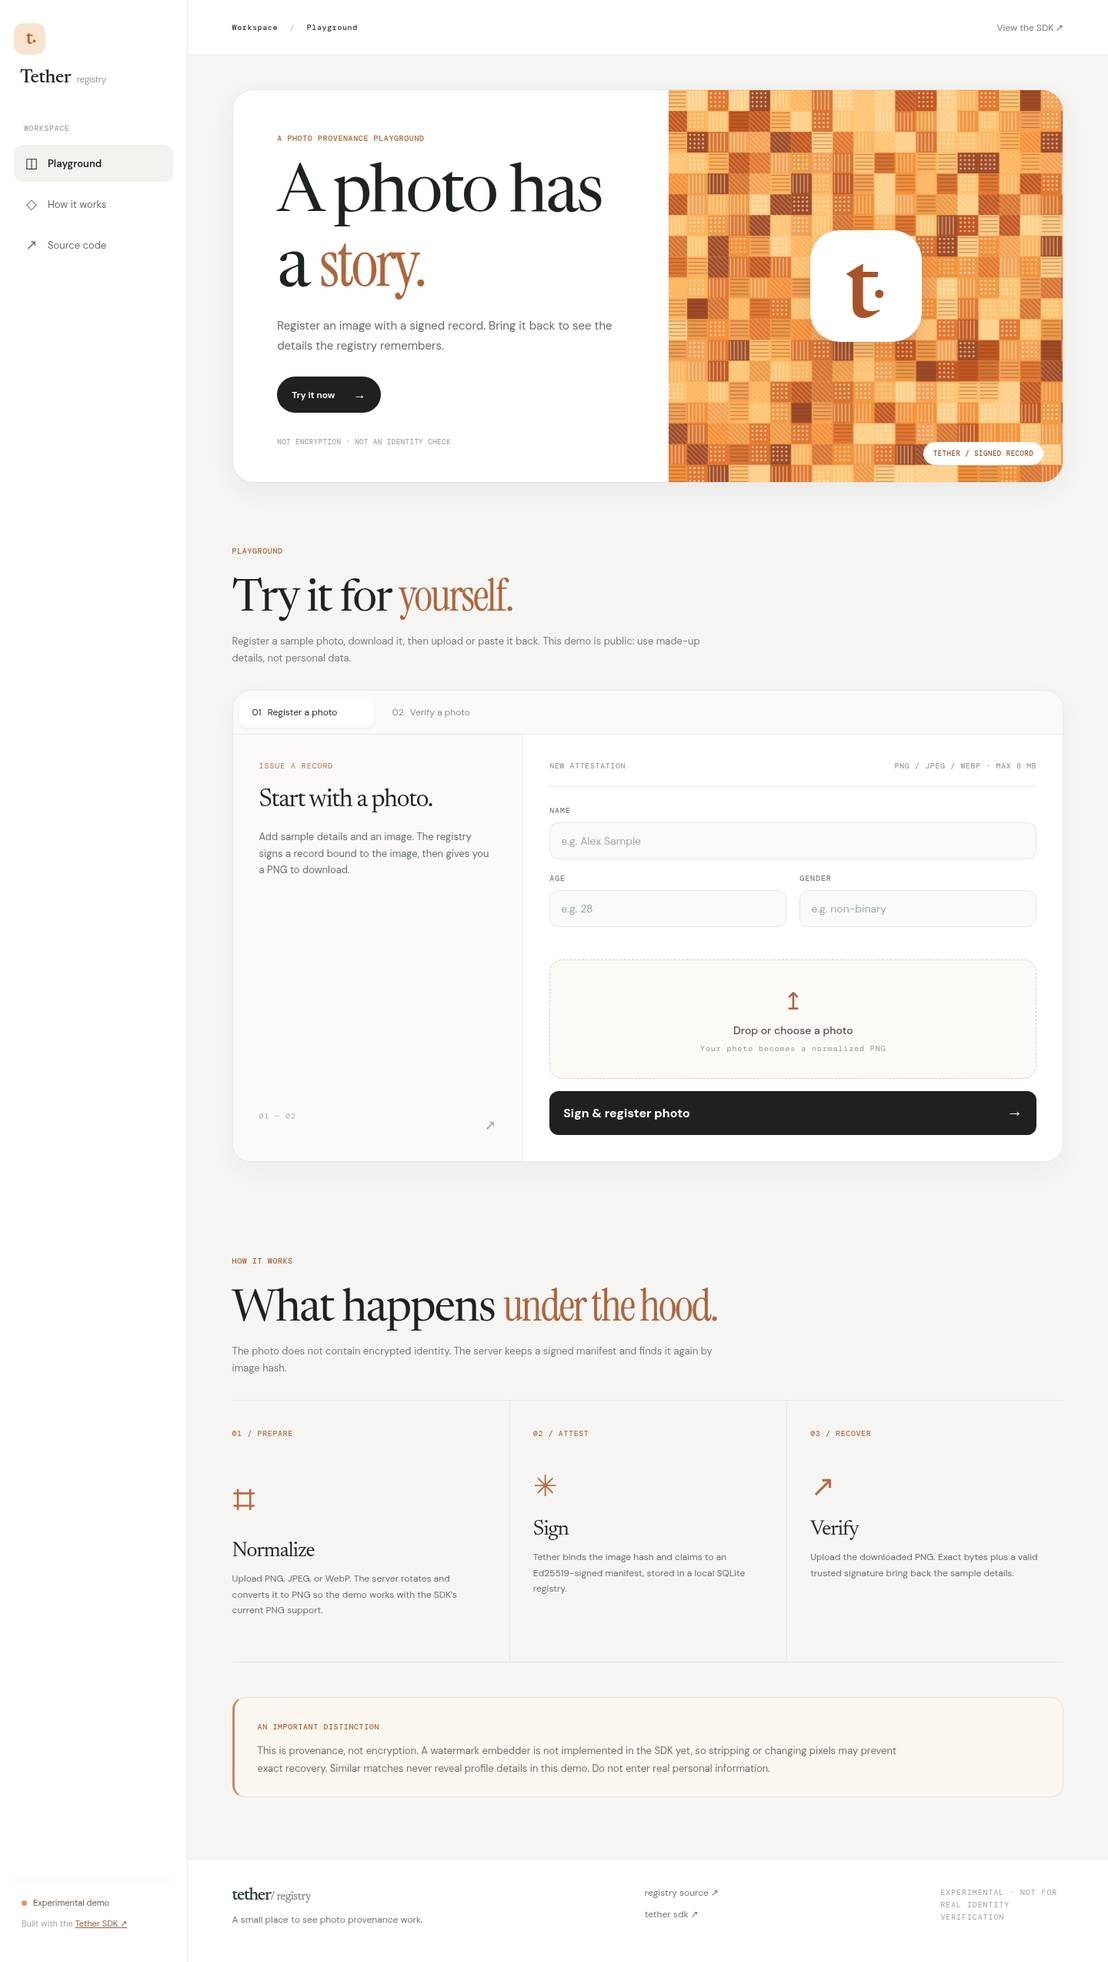
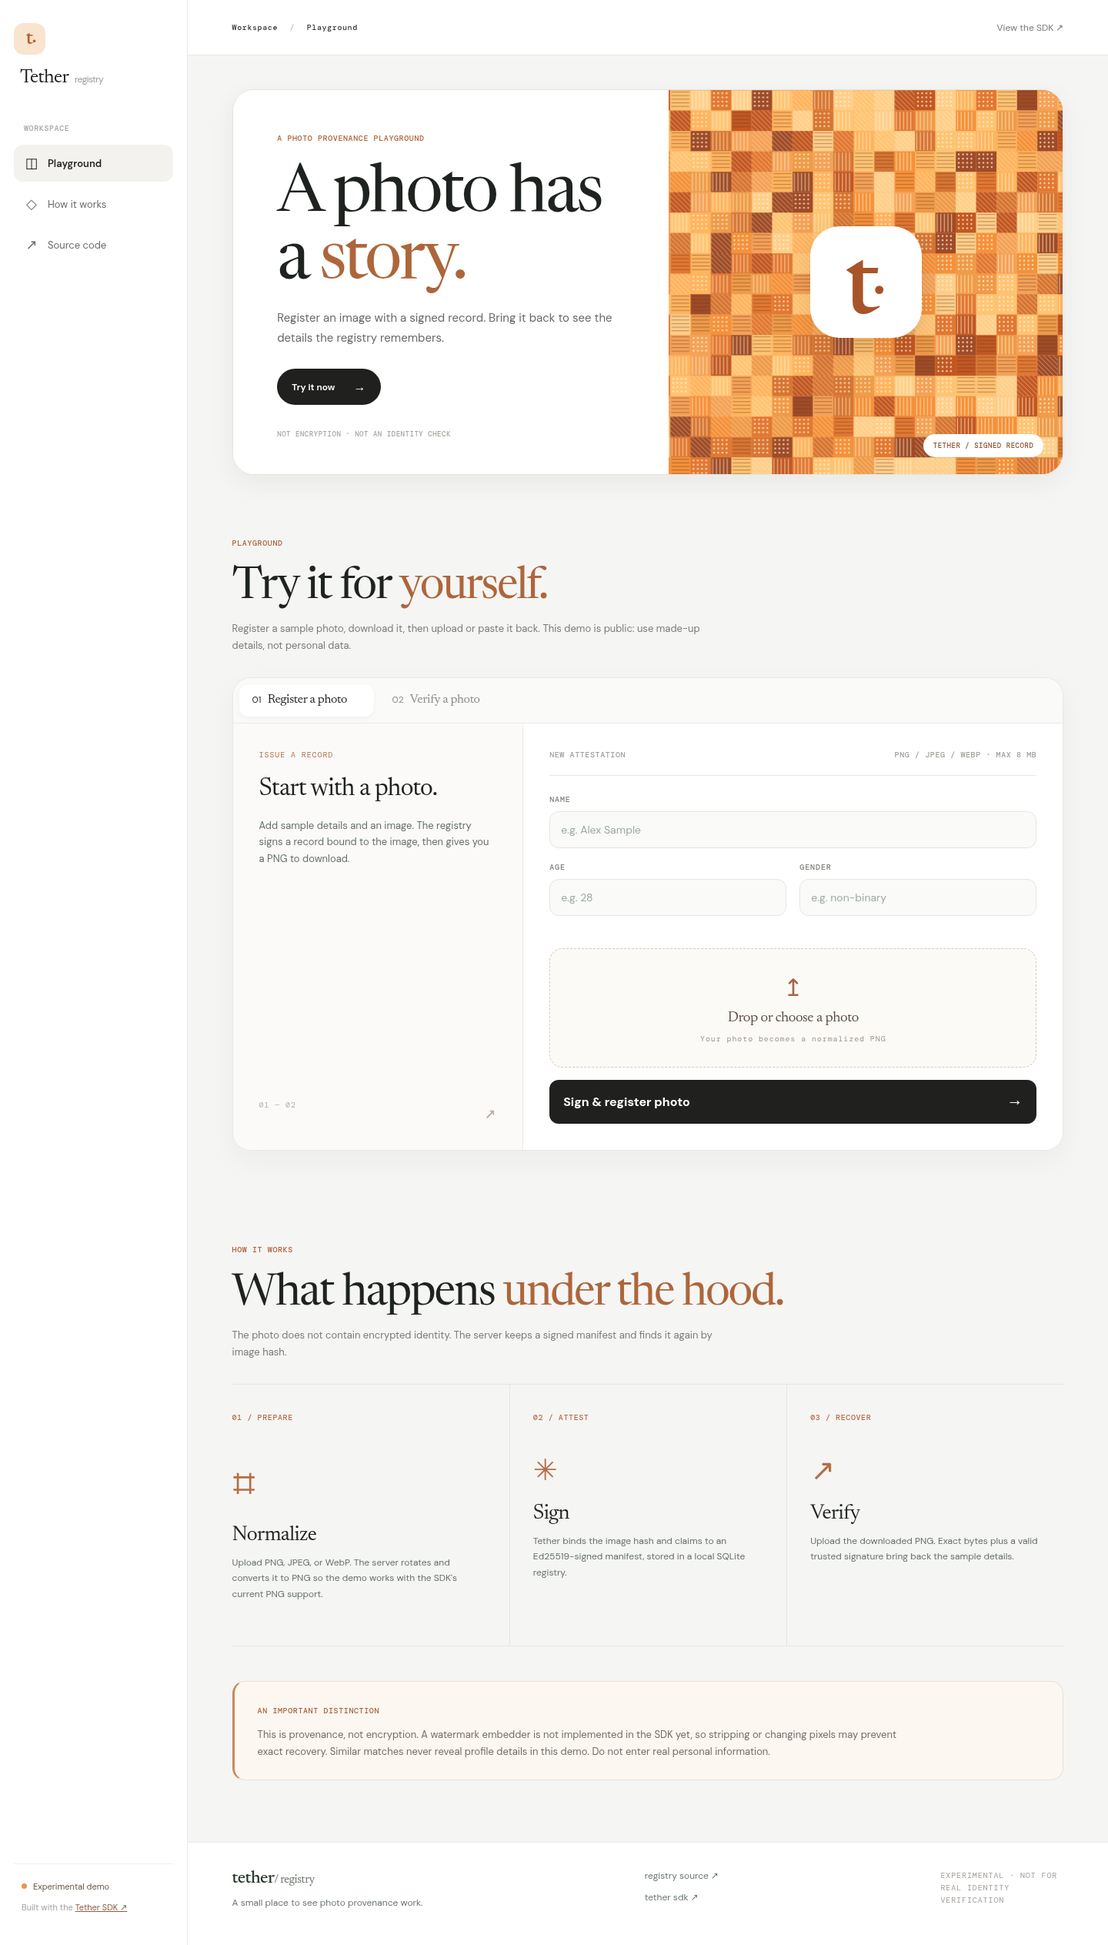
Use one serif display face across all registry titles

diff --git a/src/style.css b/src/style.css
@@ -1,5 +1,5 @@
-@import url('https://fonts.googleapis.com/css2?family=DM+Mono:wght@400;500&family=DM+Sans:wght@400;500;600;700&family=Instrument+Serif:ital@0;1&display=swap');
-:root{font-family:'DM Sans',sans-serif;color:#f3f1ec;background:#0a0b0d;font-synthesis:none}*{box-sizing:border-box}html{scroll-behavior:smooth}body{margin:0}button,input{font:inherit}button{cursor:pointer}a{color:inherit;text-decoration:none}.site{overflow:hidden}.topbar{height:66px;border-bottom:1px solid #25272a;display:flex;align-items:center;justify-content:space-between;padding:0 max(5vw,calc((100vw - 1220px)/2));gap:25px;position:relative;z-index:2;background:#0a0b0d}.brand{font-size:21px;font-weight:700;letter-spacing:-.06em;white-space:nowrap}.brand-icon{display:inline-block;color:#c7ef84;font-size:27px;vertical-align:-2px;margin-right:5px}.brand-sub{font-size:14px;font-weight:400;color:#797d7b;letter-spacing:-.03em}.topbar nav{display:flex;align-items:center;gap:34px;font-size:13px;color:#a8aaa8}.topbar nav a:hover,.footer-links a:hover{color:#c7ef84}.top-status,.eyebrow,.hero-footer,.kicker,.micro,.work-index,.form-title,.fields label,.dropzone small,.result-kicker,.result-id,.step-num,.notice>span,footer small{font-family:'DM Mono',monospace;font-size:10px;letter-spacing:.09em}.top-status{color:#929790;white-space:nowrap}.top-status i{display:inline-block;width:6px;height:6px;border-radius:50%;background:#c7ef84;margin-right:7px}.hero{max-width:1220px;margin:auto;border-inline:1px solid #25272a}.hero-grid{min-height:560px;display:grid;grid-template-columns:1fr 1fr}.hero-copy{padding:106px 3vw 80px 5vw;position:relative;z-index:1}.eyebrow,.kicker,.micro{color:#c7ef84}.square{display:inline-block;width:7px;height:7px;background:#c7ef84;margin-right:12px}.hero h1{font-size:clamp(64px,7vw,108px);line-height:.97;letter-spacing:-.075em;font-weight:600;margin:43px 0 28px;white-space:nowrap}.hero h1 em,.section-head h2 em{font-family:'Instrument Serif',serif;font-weight:400;letter-spacing:-.04em;color:#c7ef84}.dot{color:#c7ef84}.hero-copy p,.section-head p,.work-intro p,.steps p,.notice p{color:#919694;font-size:16px;line-height:1.7;max-width:465px}.hero-link{display:inline-flex;gap:34px;align-items:center;padding:15px 0;border-bottom:1px solid #c7ef84;margin-top:22px;font-size:13px;font-weight:600}.hero-link .arrow{color:#c7ef84;font-size:19px}.hero-art{border-left:1px solid #25272a;position:relative;overflow:hidden;background:linear-gradient(#14161a88 1px,transparent 1px),linear-gradient(90deg,#14161a88 1px,transparent 1px);background-size:54px 54px}.hero-art:after{content:'';position:absolute;inset:0;background:radial-gradient(circle at center,transparent 8%,#0a0b0d 75%);pointer-events:none}.orbit{position:absolute;border:1px solid #343b32;border-radius:50%;left:50%;top:50%;transform:translate(-50%,-50%)}.orbit-one{width:360px;height:360px}.orbit-two{width:510px;height:510px;border-style:dashed;opacity:.6}.art-center{position:absolute;left:50%;top:50%;transform:translate(-50%,-50%) rotate(-14deg);width:265px;height:300px;border:1px solid #626f53;border-radius:11px;background:linear-gradient(140deg,#252d24,#111513 65%);box-shadow:0 38px 90px #000b;display:grid;place-items:center}.art-center:before{content:'';position:absolute;inset:13px;border:1px solid #414d3e;border-radius:4px}.art-glyph{font-size:130px;font-weight:700;letter-spacing:-.12em;color:#d9f1b2;text-shadow:0 0 50px #99c86366}.art-glyph span{color:#9ac564}.art-label{position:absolute;color:#d0e2c0;font:10px 'DM Mono',monospace;letter-spacing:.08em;z-index:1;background:#131713;border:1px solid #343c34;padding:11px 15px}.label-top{top:90px;right:30px}.label-bottom{bottom:85px;left:38px}.art-cross{position:absolute;color:#799267;font:24px 'DM Mono';z-index:1}.cross-one{top:70px;left:80px}.cross-two{bottom:65px;right:84px}.hero-footer{display:flex;justify-content:space-between;padding:20px 5vw;border-top:1px solid #25272a;color:#777c79}.playground,.how{max-width:1220px;margin:auto;border-inline:1px solid #25272a;padding:105px 5vw 110px}.playground{border-top:1px solid #25272a}.section-head{display:grid;grid-template-columns:1fr 360px;align-items:end;column-gap:30px}.section-head .kicker{grid-column:1/-1}.section-head h2{font-size:clamp(48px,5.4vw,72px);line-height:1.06;letter-spacing:-.055em;font-weight:600;margin:25px 0 45px}.section-head p{font-size:14px;margin:0 0 49px}.workspace{border:1px solid #373b38;background:#101213}.tabs{display:flex;border-bottom:1px solid #373b38}.tabs button{background:none;border:0;border-right:1px solid #373b38;color:#6f7772;padding:21px 27px;font:11px 'DM Mono',monospace;min-width:220px;text-align:left}.tabs button span{font:13px 'DM Sans',sans-serif;margin-left:14px}.tabs button.active{color:#c7ef84;box-shadow:inset 0 -2px #c7ef84;background:#1a2119}.work-body{display:grid;grid-template-columns:37% 63%}.work-intro{padding:48px 38px;border-right:1px solid #373b38;display:flex;flex-direction:column}.work-intro h3{font-size:33px;letter-spacing:-.045em;margin:30px 0 9px}.work-intro p{font-size:14px}.work-index{margin-top:auto;color:#797e79;padding-top:80px;display:flex;justify-content:space-between}.work-index span{font-size:24px}.form-panel{padding:40px;min-width:0}.form-title{display:flex;justify-content:space-between;color:#777f78;gap:10px;border-bottom:1px solid #303632;padding-bottom:20px}.fields{margin:24px 0}.fields label{display:block;color:#a6aca6}.fields input{display:block;width:100%;color:#f3f1ec;background:#171a19;border:1px solid #323934;padding:15px 14px;margin:9px 0 18px;border-radius:2px;outline:none;letter-spacing:normal;font:14px 'DM Sans',sans-serif}.fields input:focus{border-color:#c7ef84}.fields input::placeholder{color:#646b65}.field-row{display:grid;grid-template-columns:1fr 1fr;gap:17px}.dropzone{min-height:170px;border:1px dashed #596454;display:flex;flex-direction:column;align-items:center;justify-content:center;text-align:center;padding:22px;background:#141a15;cursor:pointer;gap:8px;transition:background .2s}.dropzone:hover{background:#1b261c}.upload-icon{font-size:31px;color:#c7ef84}.dropzone strong{font-weight:500;font-size:14px}.dropzone small{color:#8c978c}.dropzone.has-photo{flex-direction:row;justify-content:flex-start;text-align:left;min-height:120px}.dropzone img{width:82px;height:82px;object-fit:cover;border-radius:2px}.drop-text{display:flex;flex-direction:column;gap:6px;min-width:0}.drop-text span{overflow:hidden;text-overflow:ellipsis;white-space:nowrap;max-width:280px}.submit{width:100%;padding:18px;background:#c7ef84;color:#111710;border:0;margin-top:16px;font-weight:700;text-align:left;display:flex;justify-content:space-between}.submit:hover{background:#e0ffac}.submit:disabled{opacity:.55;cursor:wait}.submit .arrow{font-size:21px;line-height:16px}.error{padding:15px;color:#ffc3b5;background:#48221d;margin-top:15px;font-size:13px}.result{border:1px solid #445a3b;background:#1b261c;margin-top:22px;padding:25px}.result-kicker{color:#c7ef84}.result h4{font-size:27px;letter-spacing:-.04em;margin:13px 0 8px}.result p{font-size:13px;line-height:1.65;color:#aab3a7}.download{display:inline-block;background:#c7ef84;color:#111710;font-weight:700;font-size:13px;padding:14px 20px;margin:15px 0}.result-id{color:#838f83;border-top:1px solid #435341;margin-top:20px;padding-top:17px;display:flex;gap:15px;align-items:center;word-break:break-all}.result-id code{font-size:11px;color:#d4e4cc;letter-spacing:0}.result dl{margin:24px 0}.result dl div{display:flex;border-top:1px solid #435341;padding:12px 0}.result dt{font:10px 'DM Mono',monospace;color:#929d8f;width:115px}.result dd{margin:0;font-size:14px}.how{border-top:1px solid #25272a}.steps{display:grid;grid-template-columns:repeat(3,1fr);border-top:1px solid #353b35;border-bottom:1px solid #353b35}.steps article{padding:30px 30px 45px 0}.steps article+article{border-left:1px solid #353b35;padding-left:30px}.step-num{color:#c7ef84}.step-mark{font-size:38px;color:#c7ef84;margin:35px 0 18px}.steps h3{font-size:24px;letter-spacing:-.04em;margin:0 0 8px}.steps p{font-size:13px}.notice{margin-top:45px;border-left:2px solid #c7ef84;background:#151a16;padding:25px 30px}.notice>span{color:#c7ef84}.notice p{max-width:850px;font-size:13px;margin:12px 0 0}footer{max-width:1220px;margin:auto;border:1px solid #25272a;padding:45px 5vw;display:flex;align-items:start;justify-content:space-between;gap:25px;color:#9aa09c}footer p{font-size:12px}.footer-links{display:flex;flex-direction:column;gap:12px;font-size:12px}footer small{max-width:160px;line-height:1.6}@media(max-width:800px){.topbar{padding:0 5vw}.topbar nav{gap:13px}.topbar nav a:nth-child(2),.top-status{display:none}.hero-grid,.section-head,.work-body{grid-template-columns:1fr}.hero-grid{min-height:0}.hero-copy{padding:80px 6vw 55px}.hero h1{font-size:clamp(62px,12vw,85px)}.hero-art{height:330px;border-left:0;border-top:1px solid #25272a}.art-center{width:180px;height:210px}.art-glyph{font-size:95px}.orbit-one{width:260px;height:260px}.orbit-two{width:380px;height:380px}.hero-footer span:nth-child(2){display:none}.playground,.how{padding:75px 5vw}.section-head h2{margin-bottom:16px}.section-head p{margin-bottom:36px}.work-intro{border-right:0;border-bottom:1px solid #373b38}.work-index{padding-top:25px}.form-panel{padding:27px}.steps{grid-template-columns:1fr}.steps article+article{border-left:0;border-top:1px solid #353b35;padding-left:0}.steps article{padding:30px 0}.steps .step-mark{margin:18px 0 5px}footer{flex-wrap:wrap}}@media(max-width:480px){.topbar nav a:first-child{display:none}.hero-footer{font-size:8px}.tabs button{min-width:0;flex:1;padding:16px 9px}.tabs button span{margin-left:4px;font-size:11px}.form-title{font-size:8px}.field-row{gap:10px}.hero h1{font-size:58px}}
+@import url('https://fonts.googleapis.com/css2?family=DM+Mono:wght@400;500&family=DM+Sans:wght@400;500;600;700&display=swap');
+:root{font-family:'DM Sans',sans-serif;color:#f3f1ec;background:#0a0b0d;font-synthesis:none}*{box-sizing:border-box}html{scroll-behavior:smooth}body{margin:0}button,input{font:inherit}button{cursor:pointer}a{color:inherit;text-decoration:none}.site{overflow:hidden}.topbar{height:66px;border-bottom:1px solid #25272a;display:flex;align-items:center;justify-content:space-between;padding:0 max(5vw,calc((100vw - 1220px)/2));gap:25px;position:relative;z-index:2;background:#0a0b0d}.brand{font-size:21px;font-weight:700;letter-spacing:-.06em;white-space:nowrap}.brand-icon{display:inline-block;color:#c7ef84;font-size:27px;vertical-align:-2px;margin-right:5px}.brand-sub{font-size:14px;font-weight:400;color:#797d7b;letter-spacing:-.03em}.topbar nav{display:flex;align-items:center;gap:34px;font-size:13px;color:#a8aaa8}.topbar nav a:hover,.footer-links a:hover{color:#c7ef84}.top-status,.eyebrow,.hero-footer,.kicker,.micro,.work-index,.form-title,.fields label,.dropzone small,.result-kicker,.result-id,.step-num,.notice>span,footer small{font-family:'DM Mono',monospace;font-size:10px;letter-spacing:.09em}.top-status{color:#929790;white-space:nowrap}.top-status i{display:inline-block;width:6px;height:6px;border-radius:50%;background:#c7ef84;margin-right:7px}.hero{max-width:1220px;margin:auto;border-inline:1px solid #25272a}.hero-grid{min-height:560px;display:grid;grid-template-columns:1fr 1fr}.hero-copy{padding:106px 3vw 80px 5vw;position:relative;z-index:1}.eyebrow,.kicker,.micro{color:#c7ef84}.square{display:inline-block;width:7px;height:7px;background:#c7ef84;margin-right:12px}.hero h1{font-size:clamp(64px,7vw,108px);line-height:.97;letter-spacing:-.075em;font-weight:600;margin:43px 0 28px;white-space:nowrap}.hero h1 em,.section-head h2 em{font-family:'Newsreader',Georgia,serif;font-weight:400;letter-spacing:-.04em;color:#c7ef84}.dot{color:#c7ef84}.hero-copy p,.section-head p,.work-intro p,.steps p,.notice p{color:#919694;font-size:16px;line-height:1.7;max-width:465px}.hero-link{display:inline-flex;gap:34px;align-items:center;padding:15px 0;border-bottom:1px solid #c7ef84;margin-top:22px;font-size:13px;font-weight:600}.hero-link .arrow{color:#c7ef84;font-size:19px}.hero-art{border-left:1px solid #25272a;position:relative;overflow:hidden;background:linear-gradient(#14161a88 1px,transparent 1px),linear-gradient(90deg,#14161a88 1px,transparent 1px);background-size:54px 54px}.hero-art:after{content:'';position:absolute;inset:0;background:radial-gradient(circle at center,transparent 8%,#0a0b0d 75%);pointer-events:none}.orbit{position:absolute;border:1px solid #343b32;border-radius:50%;left:50%;top:50%;transform:translate(-50%,-50%)}.orbit-one{width:360px;height:360px}.orbit-two{width:510px;height:510px;border-style:dashed;opacity:.6}.art-center{position:absolute;left:50%;top:50%;transform:translate(-50%,-50%) rotate(-14deg);width:265px;height:300px;border:1px solid #626f53;border-radius:11px;background:linear-gradient(140deg,#252d24,#111513 65%);box-shadow:0 38px 90px #000b;display:grid;place-items:center}.art-center:before{content:'';position:absolute;inset:13px;border:1px solid #414d3e;border-radius:4px}.art-glyph{font-size:130px;font-weight:700;letter-spacing:-.12em;color:#d9f1b2;text-shadow:0 0 50px #99c86366}.art-glyph span{color:#9ac564}.art-label{position:absolute;color:#d0e2c0;font:10px 'DM Mono',monospace;letter-spacing:.08em;z-index:1;background:#131713;border:1px solid #343c34;padding:11px 15px}.label-top{top:90px;right:30px}.label-bottom{bottom:85px;left:38px}.art-cross{position:absolute;color:#799267;font:24px 'DM Mono';z-index:1}.cross-one{top:70px;left:80px}.cross-two{bottom:65px;right:84px}.hero-footer{display:flex;justify-content:space-between;padding:20px 5vw;border-top:1px solid #25272a;color:#777c79}.playground,.how{max-width:1220px;margin:auto;border-inline:1px solid #25272a;padding:105px 5vw 110px}.playground{border-top:1px solid #25272a}.section-head{display:grid;grid-template-columns:1fr 360px;align-items:end;column-gap:30px}.section-head .kicker{grid-column:1/-1}.section-head h2{font-size:clamp(48px,5.4vw,72px);line-height:1.06;letter-spacing:-.055em;font-weight:600;margin:25px 0 45px}.section-head p{font-size:14px;margin:0 0 49px}.workspace{border:1px solid #373b38;background:#101213}.tabs{display:flex;border-bottom:1px solid #373b38}.tabs button{background:none;border:0;border-right:1px solid #373b38;color:#6f7772;padding:21px 27px;font:11px 'DM Mono',monospace;min-width:220px;text-align:left}.tabs button span{font:13px 'DM Sans',sans-serif;margin-left:14px}.tabs button.active{color:#c7ef84;box-shadow:inset 0 -2px #c7ef84;background:#1a2119}.work-body{display:grid;grid-template-columns:37% 63%}.work-intro{padding:48px 38px;border-right:1px solid #373b38;display:flex;flex-direction:column}.work-intro h3{font-size:33px;letter-spacing:-.045em;margin:30px 0 9px}.work-intro p{font-size:14px}.work-index{margin-top:auto;color:#797e79;padding-top:80px;display:flex;justify-content:space-between}.work-index span{font-size:24px}.form-panel{padding:40px;min-width:0}.form-title{display:flex;justify-content:space-between;color:#777f78;gap:10px;border-bottom:1px solid #303632;padding-bottom:20px}.fields{margin:24px 0}.fields label{display:block;color:#a6aca6}.fields input{display:block;width:100%;color:#f3f1ec;background:#171a19;border:1px solid #323934;padding:15px 14px;margin:9px 0 18px;border-radius:2px;outline:none;letter-spacing:normal;font:14px 'DM Sans',sans-serif}.fields input:focus{border-color:#c7ef84}.fields input::placeholder{color:#646b65}.field-row{display:grid;grid-template-columns:1fr 1fr;gap:17px}.dropzone{min-height:170px;border:1px dashed #596454;display:flex;flex-direction:column;align-items:center;justify-content:center;text-align:center;padding:22px;background:#141a15;cursor:pointer;gap:8px;transition:background .2s}.dropzone:hover{background:#1b261c}.upload-icon{font-size:31px;color:#c7ef84}.dropzone strong{font-weight:500;font-size:14px}.dropzone small{color:#8c978c}.dropzone.has-photo{flex-direction:row;justify-content:flex-start;text-align:left;min-height:120px}.dropzone img{width:82px;height:82px;object-fit:cover;border-radius:2px}.drop-text{display:flex;flex-direction:column;gap:6px;min-width:0}.drop-text span{overflow:hidden;text-overflow:ellipsis;white-space:nowrap;max-width:280px}.submit{width:100%;padding:18px;background:#c7ef84;color:#111710;border:0;margin-top:16px;font-weight:700;text-align:left;display:flex;justify-content:space-between}.submit:hover{background:#e0ffac}.submit:disabled{opacity:.55;cursor:wait}.submit .arrow{font-size:21px;line-height:16px}.error{padding:15px;color:#ffc3b5;background:#48221d;margin-top:15px;font-size:13px}.result{border:1px solid #445a3b;background:#1b261c;margin-top:22px;padding:25px}.result-kicker{color:#c7ef84}.result h4{font-size:27px;letter-spacing:-.04em;margin:13px 0 8px}.result p{font-size:13px;line-height:1.65;color:#aab3a7}.download{display:inline-block;background:#c7ef84;color:#111710;font-weight:700;font-size:13px;padding:14px 20px;margin:15px 0}.result-id{color:#838f83;border-top:1px solid #435341;margin-top:20px;padding-top:17px;display:flex;gap:15px;align-items:center;word-break:break-all}.result-id code{font-size:11px;color:#d4e4cc;letter-spacing:0}.result dl{margin:24px 0}.result dl div{display:flex;border-top:1px solid #435341;padding:12px 0}.result dt{font:10px 'DM Mono',monospace;color:#929d8f;width:115px}.result dd{margin:0;font-size:14px}.how{border-top:1px solid #25272a}.steps{display:grid;grid-template-columns:repeat(3,1fr);border-top:1px solid #353b35;border-bottom:1px solid #353b35}.steps article{padding:30px 30px 45px 0}.steps article+article{border-left:1px solid #353b35;padding-left:30px}.step-num{color:#c7ef84}.step-mark{font-size:38px;color:#c7ef84;margin:35px 0 18px}.steps h3{font-size:24px;letter-spacing:-.04em;margin:0 0 8px}.steps p{font-size:13px}.notice{margin-top:45px;border-left:2px solid #c7ef84;background:#151a16;padding:25px 30px}.notice>span{color:#c7ef84}.notice p{max-width:850px;font-size:13px;margin:12px 0 0}footer{max-width:1220px;margin:auto;border:1px solid #25272a;padding:45px 5vw;display:flex;align-items:start;justify-content:space-between;gap:25px;color:#9aa09c}footer p{font-size:12px}.footer-links{display:flex;flex-direction:column;gap:12px;font-size:12px}footer small{max-width:160px;line-height:1.6}@media(max-width:800px){.topbar{padding:0 5vw}.topbar nav{gap:13px}.topbar nav a:nth-child(2),.top-status{display:none}.hero-grid,.section-head,.work-body{grid-template-columns:1fr}.hero-grid{min-height:0}.hero-copy{padding:80px 6vw 55px}.hero h1{font-size:clamp(62px,12vw,85px)}.hero-art{height:330px;border-left:0;border-top:1px solid #25272a}.art-center{width:180px;height:210px}.art-glyph{font-size:95px}.orbit-one{width:260px;height:260px}.orbit-two{width:380px;height:380px}.hero-footer span:nth-child(2){display:none}.playground,.how{padding:75px 5vw}.section-head h2{margin-bottom:16px}.section-head p{margin-bottom:36px}.work-intro{border-right:0;border-bottom:1px solid #373b38}.work-index{padding-top:25px}.form-panel{padding:27px}.steps{grid-template-columns:1fr}.steps article+article{border-left:0;border-top:1px solid #353b35;padding-left:0}.steps article{padding:30px 0}.steps .step-mark{margin:18px 0 5px}footer{flex-wrap:wrap}}@media(max-width:480px){.topbar nav a:first-child{display:none}.hero-footer{font-size:8px}.tabs button{min-width:0;flex:1;padding:16px 9px}.tabs button span{margin-left:4px;font-size:11px}.form-title{font-size:8px}.field-row{gap:10px}.hero h1{font-size:58px}}
 
 /* Light, rounded revision. The first cut was too dark and angular. */
 :root{color:#242821;background:#f7f7f2;color-scheme:light}

diff --git a/src/redesign.css b/src/redesign.css
@@ -14,3 +14,14 @@ main{max-width:1200px;margin:auto}.hero,.playground,.how{border:0;max-width:none
 @media(max-width:540px){.site{display:block}.side-nav{position:static;width:auto;height:60px;min-height:0;display:flex;flex-direction:row;align-items:center;justify-content:space-between;padding:10px 18px}.side-logo{width:37px;height:37px}.side-title{display:block;margin:0;font-size:22px}.side-title span{font-size:10px}.side-group-label,.side-nav nav,.side-bottom{display:none}.app-header{height:54px}.hero,.playground,.how{padding-left:17px;padding-right:17px}.hero{padding-top:19px}.hero h1{font-size:57px}.hero-grid{border-radius:23px}.hero-art{height:205px}.texture-icon{width:100px;height:100px;font-size:75px;border-radius:27px;padding-top:15px}.texture-icon span{font-size:48px}.playground,.how{padding-top:54px}.section-head h2{font-size:43px}.form-panel,.work-intro{padding:24px}.tabs button{min-width:0;flex:1;padding:12px 6px}.tabs button span{font-size:11px}.field-row{grid-template-columns:1fr;gap:0}footer{padding:30px 18px}}
 /* Keep the navigation in the document's own height for complete page captures. */
 @media(min-width:541px){.side-nav{position:relative;top:auto;height:auto;align-self:stretch}}
+/* One display face for every title, including secondary UI titles. */
+h1,h2,h3,h4,h5,h6,
+.side-title,.brand,.work-intro h3,.result h4,.steps h3,
+.tabs button span,.dropzone strong {
+  font-family:'Newsreader',Georgia,serif;
+  font-weight:400;
+  letter-spacing:-.025em;
+}
+.tabs button span{font-size:16px;line-height:1.1}
+.dropzone strong{font-size:19px;line-height:1.2}
+@media(max-width:540px){.tabs button span{font-size:14px}}
